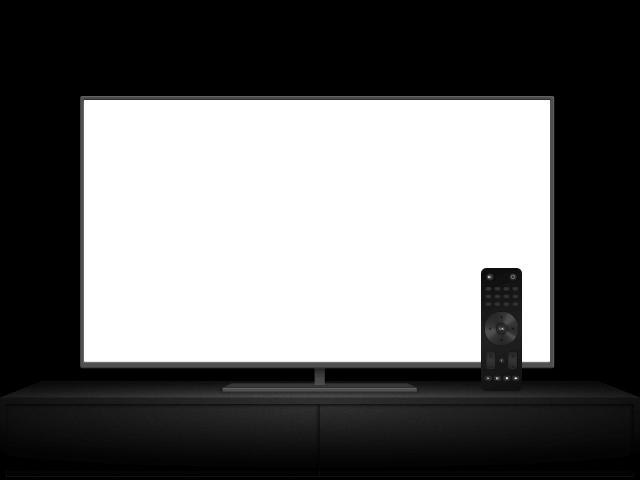
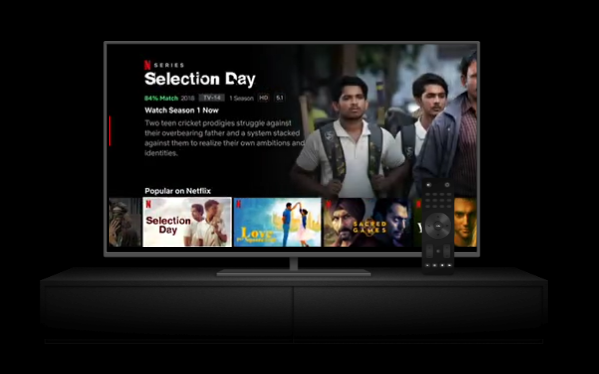
add more section

diff --git a/index.html b/index.html
@@ -45,36 +45,52 @@
           </form>
     </section>
 </div>
-
-<section class="second-section mt-2 ">
+<!-- Section -1 -->
+<section class="second-section mt-2 d-flex align-items-center justify-content-evenly ">
 <div class="container ">
     <div class="col-12 d-flex align-items-center justify-content-evenly">
       <div class="col-6 ">
         <p class="fs-1 fw-bolder text-white">Enjoy on your TV</p>
         <p class="fs-4 text-white" style="width: 85%;">Watch on smart TVs, PlayStation, Xbox, Chromecast, Apple TV, Blu-ray players and more.</p>
       </div>
-      <div class="col-6 ">
-        <img src="./image/tv.png" alt="">
-        <video src="./image/video-tv-in-0819.m4v"></video>
-        
+      <div class="col-6 ">       
+        <img src="./image/tv.png" alt="" d-flex align-items-center justify-content-evenly style="width: 500px;">
+       
       </div>
     </div>
 </div>
 </section>
-
-<section class="second-section mt-2 ">
-  <div class="container ">
-      <div class="col-12 d-flex align-items-center justify-content-evenly">
+<!-- Section -2 -->
+<section class="second-section mt-2 d-flex align-items-center justify-content-evenly">
+  <div class="container">
+      <div class="col-12 d-flex align-items-center justify-content-between">
+        <div class="col-6 ">       
+          <img src="./image/img-2.PNG" alt="" d-flex align-items-center justify-content-evenly style="width: 300px;">
+         </div>
         <div class="col-6 ">
-          <p class="fs-1 fw-bolder text-white">Enjoy on your TV</p>
-          <p class="fs-4 text-white" style="width: 85%;">Watch on smart TVs, PlayStation, Xbox, Chromecast, Apple TV, Blu-ray players and more.</p>
+          <p class="fs-1 fw-bolder text-white">Download your shows to watch offline</p>
+          <p class="fs-4 text-white" style="width: 85%;">Save your favourites easily and always have something to watch.</p>
         </div>
-        <div class="col-6 ">
-          <img src="./image/tv.png" alt="">
-        </div>
+        
       </div>
   </div>
   </section>
+  <!-- Section- 3 -->
+  <section class="second-section mt-2 d-flex align-items-center justify-content-evenly ">
+    <div class="container ">
+        <div class="col-12 d-flex align-items-center justify-content-evenly">
+          <div class="col-6 ">
+            <p class="fs-1 fw-bolder text-white">Enjoy on your TV</p>
+            <p class="fs-4 text-white" style="width: 85%;">Watch on smart TVs, PlayStation, Xbox, Chromecast, Apple TV, Blu-ray players and more.</p>
+          </div>
+          <div class="col-6 ">       
+            <img src="./image/img-3.PNG" alt="" style="width: 400px;">
+           
+          </div>
+        </div>
+    </div>
+    </section>
+
     <script src="https://cdn.jsdelivr.net/npm/bootstrap@5.0.2/dist/js/bootstrap.bundle.min.js" integrity="sha384-MrcW6ZMFYlzcLA8Nl+NtUVF0sA7MsXsP1UyJoMp4YLEuNSfAP+JcXn/tWtIaxVXM" crossorigin="anonymous"></script>
 </body>
 </html>

diff --git a/style.css b/style.css
@@ -48,7 +48,9 @@ html, body{
 
 .second-section{
     background: #000;
-    height: 530px;
+    height: 450px;
+}
+.second-section img{
+    position: relative;
 }
 
-    
